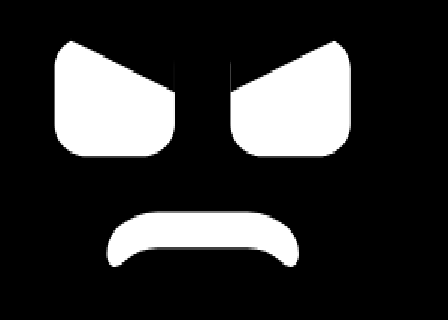
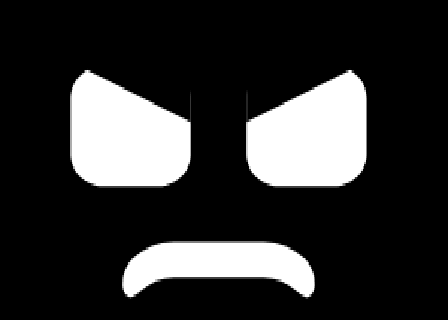
feat: add a cry toggle and a sobbing mood, close the asleep eyes and rename happyAsleep to peaceful
The cry toggle runs teardrops from the outer corner of each eye and sobs the
eyes and mouth. Sobbing combines it with happySad eyes and an open frown.

Changed region(s): [[0.2188, 0.6562, 0.7188, 0.9375], [0.5, 0.125, 0.8438, 0.5938], [0.0938, 0.125, 0.4375, 0.5938]]

diff --git a/src/roboeyes.ts b/src/roboeyes.ts
@@ -68,8 +68,8 @@ export const TIRED = SAD; // the original's name for SAD
 export const ANGRY = 2;
 export const HAPPY = 3;
 export const SMIRK = 4; // port: default eyes, one-sided smile (not in the original)
-export const ASLEEP = 5; // port: sleepy eyes looking ahead, the closed gasp mouth's dot, no blinking (not in the original)
-export const HAPPY_ASLEEP = 6; // port: sleepy eyes looking ahead, no blinking (not in the original)
+export const ASLEEP = 5; // port: closed eyes looking ahead, the closed gasp mouth's dot, no blinking (not in the original)
+export const PEACEFUL = 6; // port: sleepy eyes looking ahead, no blinking (not in the original)
 export const WORRIED = 7; // port: sad eyes, mouth up on the left and down on the right (not in the original)
 export const FURIOUS = 8; // port: angry eyes and frown, curious, shaking and looking around (not in the original)
 
@@ -89,13 +89,13 @@ export const NW = 8; // north-west, top left
 // for middle center set DEFAULT
 
 export type Mood = typeof DEFAULT | typeof SAD | typeof ANGRY | typeof HAPPY | typeof SMIRK | typeof ASLEEP
-    | typeof HAPPY_ASLEEP | typeof WORRIED | typeof FURIOUS;
+    | typeof PEACEFUL | typeof WORRIED | typeof FURIOUS;
 // Port: the mood constants name these entries of FaceConfig.moods
-const MOOD_NAMES = ['default', 'sad', 'angry', 'happy', 'smirk', 'asleep', 'happyAsleep', 'worried', 'furious'];
+const MOOD_NAMES = ['default', 'sad', 'angry', 'happy', 'smirk', 'asleep', 'peaceful', 'worried', 'furious'];
 // Port: the position constants name these entries of FaceConfig.looks
 const POSITION_LOOKS = ['center', 'N', 'NE', 'E', 'SE', 'S', 'SW', 'W', 'NW'];
 // Port: each toggle and the field that holds it (shake is the original's horizontal flicker)
-const TOGGLES = { autoblink: 'autoblinker', curious: 'curious', sweat: 'sweat', shake: 'hFlicker', talk: 'mouthTalk', laugh: 'laugh' } as const;
+const TOGGLES = { autoblink: 'autoblinker', curious: 'curious', sweat: 'sweat', shake: 'hFlicker', talk: 'mouthTalk', laugh: 'laugh', cry: 'cry' } as const;
 export type Position = typeof DEFAULT | typeof N | typeof NE | typeof E | typeof SE | typeof S | typeof SW | typeof W | typeof NW;
 type Point = [number, number];
 
@@ -467,6 +467,23 @@ export class RoboEyes {
     mouthShakeY = 0;
     mouthShakeYNext = 0;
 
+    // Port: the cry toggle - teardrops run down from the outer corner of each eye
+    cry = defaultConfig.toggles.cry;
+    cryDrops = defaultConfig.cry.drops; // drops running at once from each eye
+    crySpeed = defaultConfig.cry.speed; // how far a drop falls each frame, in pixels
+    cryFall = defaultConfig.cry.fall; // how far a drop runs before it is gone, in pixels
+    crySize = defaultConfig.cry.size; // a drop's width, in pixels
+    cryRise = defaultConfig.cry.rise; // how far up inside the eye a drop starts, so it runs from the corner, in pixels
+    cryFrequency = defaultConfig.cry.frequency; // sobs (bounces) per second
+    cryAmplitude = defaultConfig.cry.amplitude; // how far the eyes lift each sob, in pixels
+    cryMouthAmplitude = defaultConfig.cry.mouthAmplitude; // how far the mouth lifts each sob, in pixels
+    cryLevel = 0; // 0 to 1: how far into the sobbing the face is, easing in and out as the toggle changes
+    cryPhase = 0; // where the sob is, in radians
+    cryLast = 0; // when the sobbing was last stepped, in milliseconds
+    cryY = 0; // the sob now, added to the eyes
+    cryMouthY = 0; // and to the mouth
+    tears: { y: number; dx: number }[][] = [[], []]; // each eye's drops: how far they have fallen and how far they wander from the corner
+
     // Animation - sweat on the forehead
     sweat = false;
     sweatBorderradius = 3;
@@ -529,6 +546,7 @@ export class RoboEyes {
             curious: { growth: this.curiousGrowth, edge: this.curiousEdge },
             follow: { fullX: this.followFullX, fullY: this.followFullY },
             laugh: { frequency: this.laughFrequency, amplitude: this.laughAmplitude, mouthAmplitude: this.laughMouthAmplitude, squint: this.laughSquint, mouthOpen: this.laughMouthOpen },
+            cry: { drops: this.cryDrops, speed: this.crySpeed, fall: this.cryFall, size: this.crySize, rise: this.cryRise, frequency: this.cryFrequency, amplitude: this.cryAmplitude, mouthAmplitude: this.cryMouthAmplitude },
             shakeHead: { amplitude: this.shakeHeadAmplitude, speed: this.shakeHeadSpeed },
             talk: { syllableMs: this.talkSyllableMs, variationMs: this.talkVariationMs, pauseChance: this.talkPauseChance, open: this.talkOpen, lipLift: this.talkLipLift, cornerSway: this.talkCornerSway, visemes: structuredClone(this.visemes) },
             nod: { amplitude: this.nodAmplitude, speed: this.nodSpeed },
@@ -579,6 +597,14 @@ export class RoboEyes {
         this.laughFrequency = c.laugh.frequency;
         this.laughSquint = c.laugh.squint;
         this.laughMouthOpen = c.laugh.mouthOpen;
+        this.cryDrops = Math.max(0, Math.min(2, Math.round(c.cry.drops))); // two lanes at most
+        this.crySpeed = Math.max(0.1, c.cry.speed);
+        this.cryFall = Math.max(1, c.cry.fall);
+        this.crySize = Math.max(1, c.cry.size);
+        this.cryRise = Math.max(0, c.cry.rise);
+        this.cryFrequency = c.cry.frequency;
+        this.cryAmplitude = c.cry.amplitude;
+        this.cryMouthAmplitude = c.cry.mouthAmplitude;
         this.shakeHeadAmplitude = c.shakeHead.amplitude;
         this.shakeHeadSpeed = Math.max(0.05, Math.min(0.8, c.shakeHead.speed));
         this.talkSyllableMs = Math.max(20, c.talk.syllableMs);
@@ -891,6 +917,11 @@ export class RoboEyes {
         this.sweat = sweatBit; // turn sweat on or off
     }
 
+    // Port: the cry toggle - teardrops run down from under the eyes. The next mood sets it again.
+    setCry(cryBit: boolean) {
+        this.cry = cryBit;
+    }
+
     // Port: mouth on or off. Off keeps the original's layout exactly; on reserves a strip under the eyes.
     setMouth(mouthBit: boolean) {
         this.mouth = mouthBit;
@@ -1180,6 +1211,13 @@ export class RoboEyes {
         const lift = still ? 0 : 0.5 - 0.5 * Math.cos(this.laughPhase); // 0 to 1: 0 at rest, 1 at the top of a bounce
         this.laughY = this.int(-lift * this.laughAmplitude * this.laughLevel);
         this.laughMouthY = this.int(-lift * this.laughMouthAmplitude * this.laughLevel);
+        // Port: crying sobs the same way, a gentler bounce of the eyes and mouth
+        this.cryLevel = Math.max(0, Math.min(1, this.cryLevel + (this.cry ? dt / 150 : -dt / 300)));
+        if (this.cryLevel === 0) this.cryPhase = 0;
+        else if (!still) this.cryPhase += 2 * Math.PI * this.cryFrequency * dt / 1000;
+        const sob = still ? 0 : 0.5 - 0.5 * Math.cos(this.cryPhase);
+        this.cryY = this.int(-sob * this.cryAmplitude * this.cryLevel);
+        this.cryMouthY = this.int(-sob * this.cryMouthAmplitude * this.cryLevel);
         this.laughOpenAmount = this.laughLevel * (0.35 + 0.65 * (still ? 1 : lift)); // never quite shut, so it reads as laughing
 
         // Port: each swing eases like a blink, and turns back once it arrives
@@ -1271,8 +1309,8 @@ export class RoboEyes {
         // Port: and the mood's scale grows each eye from its centre
         const s = this.eyeScale;
         const grown = (x: number, y: number, w: number, h: number) => [int(x - w * (s - 1) / 2), int(y - h * (s - 1) / 2), int(w * s), int(h * s)];
-        const [lx, ly, lw, lh] = grown(this.eyeLx + this.shakeX, this.eyeLy + this.shakeY + this.laughY + (tallest - this.eyeLheightDefault), this.eyeLwidthCurrent, this.eyeLheightCurrent);
-        const [rx, ry, rw, rh] = grown(this.eyeRx + this.shakeX, this.eyeRy + this.shakeY + this.laughY + (tallest - this.eyeRheightDefault), this.eyeRwidthCurrent, this.eyeRheightCurrent);
+        const [lx, ly, lw, lh] = grown(this.eyeLx + this.shakeX, this.eyeLy + this.shakeY + this.laughY + this.cryY + (tallest - this.eyeLheightDefault), this.eyeLwidthCurrent, this.eyeLheightCurrent);
+        const [rx, ry, rw, rh] = grown(this.eyeRx + this.shakeX, this.eyeRy + this.shakeY + this.laughY + this.cryY + (tallest - this.eyeRheightDefault), this.eyeRwidthCurrent, this.eyeRheightCurrent);
         const leftCuts: Cutout[] = [];
         const rightCuts: Cutout[] = [];
         if (!this.cyclops) {
@@ -1319,6 +1357,28 @@ export class RoboEyes {
             else { this.sweat3Width -= 0.1; this.sweat3Height -= 0.5; } // ... and shrinks in second half of animation
             this.sweat3XPos = int(this.sweat3XPosInitial - (this.sweat3Width / 2)); // keep the growing shape centered to initial x position
             d.fillRoundRect(this.sweat3XPos, this.sweat3YPos, this.sweat3Width, this.sweat3Height, this.sweatBorderradius); // draw sweat drop
+        }
+
+        // Port: tears run down from the outer corner of each eye, staggered so they trickle one after another
+        if (this.cry && !still && !this.eyesClosed) {
+            // [left edge, width, bottom, outer side]: each eye's outer corner faces its own side of the screen
+            const corners: [number, number, number, number][] = this.cyclops
+                ? [[lx, lw, ly + lh, -1], [lx, lw, ly + lh, 1]]
+                : [[lx, lw, ly + lh, -1], [rx, rw, ry + rh, 1]];
+            corners.forEach(([x, w, bottom, side], i) => {
+                const drops = this.tears[i];
+                while (drops.length < this.cryDrops) drops.push({ y: -this.cryFall * drops.length / this.cryDrops, dx: Math.random() });
+                drops.length = this.cryDrops;
+                for (const drop of drops) {
+                    drop.y += this.crySpeed;
+                    if (drop.y > this.cryFall) { drop.y = 0; drop.dx = Math.random(); }
+                    if (drop.y < 0) continue;
+                    const grow = Math.min(1, drop.y / 3), shrink = 1 - drop.y / this.cryFall; // swells as it leaves the eye, thins as it runs out
+                    const size = Math.max(1, Math.round(this.crySize * (0.5 + 0.5 * shrink)));
+                    const edge = side < 0 ? x : x + w - size; // flush with the corner, with a pixel of play so the drops don't line up
+                    d.fillRoundRect(int(edge - side * drop.dx), int(bottom - this.cryRise + drop.y), size, Math.max(size, Math.round(size * (1 + grow))), int(size / 2));
+                }
+            });
         }
 
         d.display(); // show drawings on display
@@ -1422,7 +1482,7 @@ export class RoboEyes {
         const cx = (leftEdge + rightEdge) / 2 + this.shakeX;
         const eyeCentre = this.eyeLy + this.eyeLheightCurrent / 2;
         const tallest = Math.max(this.eyeLheightDefault, this.cyclops ? 0 : this.eyeRheightDefault); // the eyes' shared bottom edge
-        const y = eyeCentre + this.eyeLheightDefault / 2 + (tallest - this.eyeLheightDefault) + this.mouthGapCurrent + this.mouthThickness / 2 + this.mouthShakeY + this.laughMouthY;
+        const y = eyeCentre + this.eyeLheightDefault / 2 + (tallest - this.eyeLheightDefault) + this.mouthGapCurrent + this.mouthThickness / 2 + this.mouthShakeY + this.laughMouthY + this.cryMouthY;
 
         const x0 = cx - width / 2, x1 = cx + width / 2;
         const curl = width * this.mouthCurl; // how much of each end bends

diff --git a/demo.html b/demo.html
@@ -138,6 +138,7 @@
                 <button data-toggle="shake">Shake</button>
                 <button data-toggle="talk">Talk</button>
                 <button data-toggle="laugh">Laugh</button>
+                <button data-toggle="cry">Cry</button>
             </fieldset>
             <fieldset>
                 <legend>Speak</legend>
@@ -179,7 +180,7 @@
                     <button data-side="right">Right eye</button>
                     <button id="eye-side-reset">Make it like both</button>
                 </div>
-                <label>Folder <input data-group-of="eyeStates" size="24" placeholder="e.g. Closed/One eye" /></label>
+                <label>Folder <input data-group-of="eyeStates" size="24" placeholder="e.g. Sad/Crying" /></label>
                 <div class="sliders" id="eye-sliders"></div>
                 <label>Copy as a new eye state <input id="new-eye" size="10" /> <button id="add-eye">Add</button></label>
             </fieldset>
@@ -242,6 +243,7 @@
                     <button data-default="shake">Shake</button>
                     <button data-default="talk">Talk</button>
                     <button data-default="laugh">Laugh</button>
+                    <button data-default="cry">Cry</button>
                     <div class="label left">What a toggle is when the mood doesn't set it.</div>
                 </fieldset>
                 <fieldset>
@@ -304,7 +306,7 @@
             mouth: { gap: 14, width: 45 },
             mouthStates: {
                 smile: { width: 26 }, softSmile: { width: 22 }, slack: { width: 10 },
-                frown: { width: 16 }, flat: { width: 14 }, smirk: { width: 18 }, wavy: { width: 18 },
+                frown: { width: 16 }, flat: { width: 14 }, smirk: { width: 18 }, wry: { width: 18 },
             },
         });
         const canvas = document.getElementById('face');
@@ -327,7 +329,6 @@
 
         const $ = (id) => document.getElementById(id);
 
-        // happyAsleep reads as "Happy asleep"
         const title = (name) => {
             const words = name.replace(/([A-Z])/g, ' $1').toLowerCase();
             return words[0].toUpperCase() + words.slice(1);
@@ -417,8 +418,8 @@
         //// Mood, moves and face states ////
 
         // Each toggle, the face's field that holds it, and its setter
-        const toggleFields = { autoblink: 'autoblinker', curious: 'curious', sweat: 'sweat', shake: 'hFlicker', talk: 'mouthTalk', laugh: 'laugh' };
-        const toggleSetters = { autoblink: 'setAutoblinker', curious: 'setCuriosity', sweat: 'setSweat', shake: 'setShake', talk: 'setTalk', laugh: 'setLaugh' };
+        const toggleFields = { autoblink: 'autoblinker', curious: 'curious', sweat: 'sweat', shake: 'hFlicker', talk: 'mouthTalk', laugh: 'laugh', cry: 'cry' };
+        const toggleSetters = { autoblink: 'setAutoblinker', curious: 'setCuriosity', sweat: 'setSweat', shake: 'setShake', talk: 'setTalk', laugh: 'setLaugh', cry: 'setCry' };
 
         $('add-mood').onclick = () => {
             const input = $('new-mood');
@@ -488,7 +489,7 @@
             ['eyes', 'Eyes', () => Object.keys(face.eyeStates), 'open'],
             ['mouth', 'Mouth', () => Object.keys(face.mouthStates), 'softSmile'],
             ['look', 'Look', () => Object.keys(face.looks), 'wander'],
-            ['autoblink', 'Auto blink', null], ['curious', 'Curious', null], ['sweat', 'Sweat', null], ['shake', 'Shake', null], ['talk', 'Talk', null], ['laugh', 'Laugh', null],
+            ['autoblink', 'Auto blink', null], ['curious', 'Curious', null], ['sweat', 'Sweat', null], ['shake', 'Shake', null], ['talk', 'Talk', null], ['laugh', 'Laugh', null], ['cry', 'Cry', null],
         ];
         const recipeSelects = recipe.map(([key, text, choices, missing]) => {
             const label = document.createElement('label');
@@ -594,6 +595,15 @@
                 ['laugh.mouthAmplitude', 'Mouth lift (px)', 0, 10, 1],
                 ['laugh.squint', 'Squint', 0, 0.6, 0.05],
                 ['laugh.mouthOpen', 'Mouth opening (px)', 0, 14, 1],
+                ['Cry'],
+                ['cry.drops', 'Tears from each corner', 1, 2, 1],
+                ['cry.speed', 'Fall speed (px/frame)', 0.1, 2, 0.1],
+                ['cry.fall', 'Fall distance (px)', 4, 30, 1],
+                ['cry.size', 'Tear width (px)', 1, 6, 1],
+                ['cry.rise', 'Start inside the eye (px)', 0, 10, 1],
+                ['cry.frequency', 'Sobs per second', 1, 8, 0.5],
+                ['cry.amplitude', 'Eye lift (px)', 0, 8, 1],
+                ['cry.mouthAmplitude', 'Mouth lift (px)', 0, 6, 1],
                 ['Talk'],
                 ['talk.open', 'Opening when the mouth has none (px)', 0, 14, 1],
                 ['talk.syllableMs', 'Syllable (ms)', 20, 400, 10],

diff --git a/src/config.ts b/src/config.ts
@@ -22,7 +22,7 @@ import defaultConfigJson from './defaultConfig.json' with { type: 'json' };
 /*
  * A face is built in layers:
  * - face states, the building blocks: an eye state (the eyelids, or one or both eyes closed), a mouth state (how the corners
- *   bend), a look (where the eyes point, or wander, or shake the head or nod) and six toggles (auto blink, curious, sweat, shake, talk and laugh).
+ *   bend), a look (where the eyes point, or wander, or shake the head or nod) and seven toggles (auto blink, curious, sweat, shake, talk, laugh and cry).
  *   Each can be set on its own.
  * - moods: named combinations of face states, with tweaks to the eyelids and mouth for that mood only.
  * - face settings: the eyes' and mouth's size and place, timings, and the modes, which no mood changes.
@@ -118,6 +118,8 @@ export interface Toggles {
     talk: boolean;
     /** The face bounces with each "ha": the eyes lift and squint, and the mouth opens and bounces with them (at the laugh settings). */
     laugh: boolean;
+    /** Teardrops run down from the bottom of each eye (at the cry settings). */
+    cry: boolean;
 }
 
 /** One mouth shape of speech. Every amount is relative, so a viseme fits any mouth state. */
@@ -206,6 +208,10 @@ export interface FaceConfig {
      *  the mouth lift each bounce (pixels), squint how far the bottom lids come up (a fraction of the eye's height) and
      *  mouthOpen how far the mouth opens at the top of a bounce (pixels). */
     laugh: { frequency: number; amplitude: number; mouthAmplitude: number; squint: number; mouthOpen: number };
+    /** The cry toggle: drops is how many tears run at once from each eye's outer corner (1 or 2), speed how far each falls a frame, fall how far
+     *  it runs before it is gone and size how wide it is (pixels) and rise how far up inside the eye it starts, so it runs from the corner. The face sobs as it
+     *  cries: frequency is how many sobs a second, amplitude and mouthAmplitude how far the eyes and the mouth lift each one (pixels). */
+    cry: { drops: number; speed: number; fall: number; size: number; rise: number; frequency: number; amplitude: number; mouthAmplitude: number };
     shakeHead: { amplitude: number; speed: number };
     /** A talking mouth: it picks a new opening every syllableMs plus up to variationMs more; pauseChance (0 to 1) is how
      *  often that opening is shut, like a gap between words. open is how far a mouth state with no

diff --git a/README.md b/README.md
@@ -9,7 +9,7 @@ drawing on a `<canvas>`, plus a mouth. GPL-3.0-or-later, like the original (see 
 
 ```js
 import {
-    RoboEyes, DEFAULT, HAPPY, SAD, ANGRY, SMIRK, ASLEEP, HAPPY_ASLEEP, WORRIED, FURIOUS, N, E, ON, OFF,
+    RoboEyes, DEFAULT, HAPPY, SAD, ANGRY, SMIRK, ASLEEP, PEACEFUL, WORRIED, FURIOUS, N, E, ON, OFF,
 } from './dist/roboeyes.js';
 
 const eyes = new RoboEyes(document.querySelector('canvas'));
@@ -44,17 +44,17 @@ A face is built in layers:
      stays closed and auto blink blinks only the other), `peekLeft` or `peekRight` (the other eye shut, that one
      with happy sad's lids, the top tilted the other way) or `confused` (the left lid lowered, like one eyebrow raised)
    - a mouth state, `setMouthState(name)`: `softSmile`, `smile`, `smirk`, `slack`, `frown`, `flat`, `closedGasp`,
-     `wavy`, or the open mouths `openSmile`, `wideSmile`, `laugh`, `openFrown` and `openGasp`
+     `wry`, or the open mouths `open` (a neutral one), `openSmile`, `wideSmile`, `laugh`, `openFrown` and `openGasp`
    - a look, `setLook(name)`: `center`, `N`, `NE`, `E`, `SE`, `S`, `SW`, `W`, `NW`, `wander` (the original's idle
      mode, which the face starts with), `lookAround` (a quick wander, for suspicious or shifty), `shakeHeadUp`, `shakeHeadCenter` or
      `shakeHeadDown` (looking up, ahead or down while shaking the head, at the `shakeHead` settings, until another
      look is set), `nodLeft`, `nodCenter` or `nodRight` (looking left, ahead or right while nodding, at the `nod`
      settings, until another look is set), or `follow` (following the point `lookAt(x, y)` gives).
      `setPosition()` and `setIdleMode()` set looks too
-   - toggles, `setAutoblinker`, `setCuriosity`, `setSweat` and `setShake` (the eyes jitter left and right; the
+   - toggles, `setAutoblinker`, `setCuriosity`, `setSweat`, `setCry` (teardrops run down from the outer corners of the eyes) and `setShake` (the eyes jitter left and right; the
      original's `setHFlicker`)
 2. **Moods**, named combinations of face states. `setMood()` takes the name or a constant: `DEFAULT`, `SAD`, `ANGRY`,
-   `HAPPY`, `SMIRK`, `ASLEEP`, `HAPPY_ASLEEP`, `WORRIED` and `FURIOUS`. A mood sets every face state it names. What it
+   `HAPPY`, `SMIRK`, `ASLEEP`, `PEACEFUL`, `WORRIED` and `FURIOUS`. A mood sets every face state it names. What it
    leaves out comes from the `default` mood (its eye and mouth states, look, toggles, `scale` and `blink`, but not its
    `override`), and what that leaves out is `open`, `softSmile`, `wander` and the toggle defaults. So every mood starts
    from `default`, and nothing carries over from the mood before; edit `default` to change that starting point.
@@ -69,7 +69,7 @@ Every mood, with the eyes centred (the `scared` and `furious` jitter and the `sc
 
 <table>
 <tr><td align="center"><img src="screenshots/default.png" width="160" alt="default"><br>default</td><td align="center"><img src="screenshots/happy.png" width="160" alt="happy"><br>happy</td><td align="center"><img src="screenshots/smirk.png" width="160" alt="smirk"><br>smirk</td><td align="center"><img src="screenshots/bored.png" width="160" alt="bored"><br>bored</td></tr>
-<tr><td align="center"><img src="screenshots/asleep.png" width="160" alt="asleep"><br>asleep</td><td align="center"><img src="screenshots/happyAsleep.png" width="160" alt="happyAsleep"><br>happyAsleep</td><td align="center"><img src="screenshots/confused.png" width="160" alt="confused"><br>confused</td><td align="center"><img src="screenshots/surprised.png" width="160" alt="surprised"><br>surprised</td></tr>
+<tr><td align="center"><img src="screenshots/asleep.png" width="160" alt="asleep"><br>asleep</td><td align="center"><img src="screenshots/peaceful.png" width="160" alt="peaceful"><br>peaceful</td><td align="center"><img src="screenshots/confused.png" width="160" alt="confused"><br>confused</td><td align="center"><img src="screenshots/surprised.png" width="160" alt="surprised"><br>surprised</td></tr>
 <tr><td align="center"><img src="screenshots/sad.png" width="160" alt="sad"><br>sad</td><td align="center"><img src="screenshots/worried.png" width="160" alt="worried"><br>worried</td><td align="center"><img src="screenshots/scared.png" width="160" alt="scared"><br>scared</td><td align="center"><img src="screenshots/angry.png" width="160" alt="angry"><br>angry</td></tr>
 <tr><td align="center"><img src="screenshots/furious.png" width="160" alt="furious"><br>furious</td></tr>
 </table>
@@ -199,10 +199,10 @@ back (by file, drop or paste) and saves the face as an image. Your work is kept 
 - Curious, sweat, talk and shake (the original's horizontal flicker) are toggles, so a mood can turn them on or off.
   `setVFlicker()` still works but is not a toggle, so no mood changes it. The toggles' setters set them until the
   next mood.
-- New moods, beyond the original's: `SMIRK` (open eyes with the top lids half down, smirk), `ASLEEP` (sleepy eyes
-  looking straight ahead, the closed gasp mouth's dot, auto blink off), `HAPPY_ASLEEP` (sleepy eyes looking straight ahead, auto blink off),
-  `WORRIED` (sad eyes, wavy mouth) and `FURIOUS` (angry eyes, open frown, wandering, curious and shaking), and, without
-  constants, `confused` (confused eyes, wavy mouth), `laughing` (happy eyes, the laugh mouth, laugh on),
+- New moods, beyond the original's: `SMIRK` (open eyes with the top lids half down, smirk), `ASLEEP` (closed eyes
+  looking straight ahead, the closed gasp mouth's dot, auto blink off), `PEACEFUL` (sleepy eyes looking straight ahead, auto blink off),
+  `WORRIED` (sad eyes, wry mouth) and `FURIOUS` (angry eyes, open frown, wandering, curious and shaking), and, without
+  constants, `confused` (confused eyes, wry mouth), `laughing` (happy eyes, the laugh mouth, laugh on),
   `curious` (open eyes, the open gasp mouth, following the mouse and curious),   `surprised` (open eyes, the open gasp mouth) and `scared` (worried, but with a flat-bottomed frown, sweating, shaking and looking around quickly).
 - Auto blink is a toggle, so a mood can turn it off (`autoblink: false`); `setAutoblinker()` sets it until the next
   mood.
